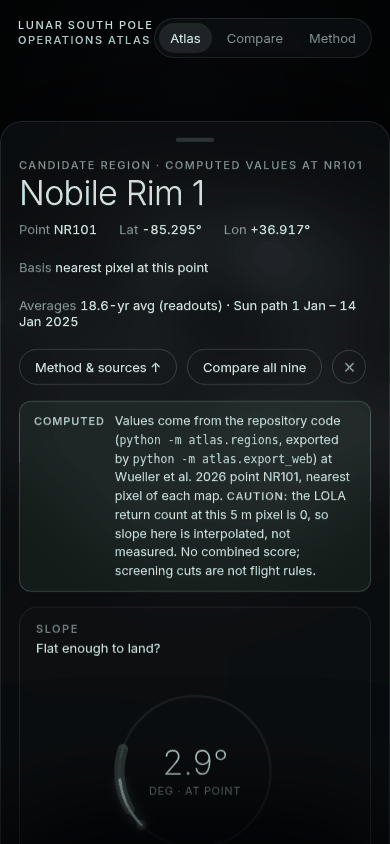
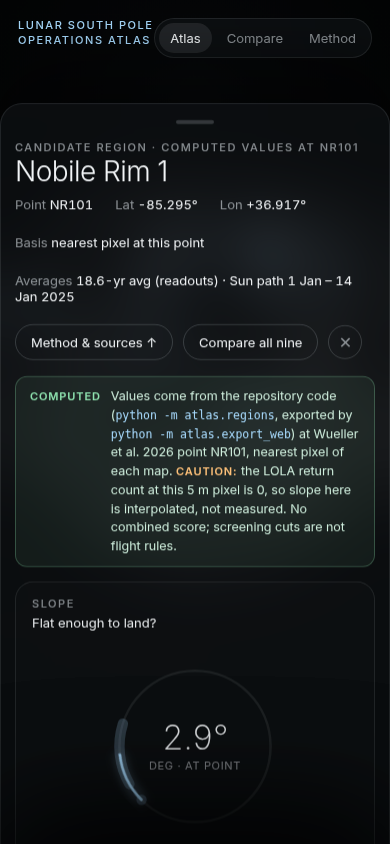
web: fix review findings on PR #1
- home chip derives 5 m / 20 m zoom counts from the zoom data (seven 5 m, two 20 m)
- horizon caption follows the selected eye height and refreshes on toggle
- NR101 now shows the outside-raster / not 18.6-year average / not link budget caveat
- compare table prints the true RMS and Diviner uncertainty, not a half-bar clamped at 0
- null temperature resolution and shadow pixel label show n/a instead of 0 m / null pixel
- fix map colatitude (8.5 deg) and Sun-wash comments
- add web/test_findings.js; regenerate affected screenshots

diff --git a/moon-south-pole-atlas/web/index.html b/moon-south-pole-atlas/web/index.html
@@ -270,7 +270,7 @@ body.layer-open .scrim{opacity:1;pointer-events:auto}
 </div>
 
 <footer class="foot">
-  <div class="chip"><i></i>All nine computed · slope missing for 3 (no 5 m slope tile) · real terrain zoom for all nine<span class="xl"> (5 m for six, 20 m for three) · DE421 Sun</span></div>
+  <div class="chip"><i></i>All nine computed · slope missing for 3 (no 5 m slope tile) · real terrain zoom for all nine<span class="xl"> (<span id="chip-zoom">5 m for seven, 20 m for two</span>) · DE421 Sun</span></div>
   <div class="compass"><span id="sunlbl">Backdrop: LOLA average sunlight visibility, 120 m · Mazarico et al. 2011</span>
     <svg viewBox="0 0 44 44"><circle cx="22" cy="22" r="20" fill="none" stroke="rgba(235,242,247,.18)"/><text x="22" y="9" fill="rgba(235,242,247,.5)" font-size="6" text-anchor="middle" font-family="sans-serif">0°</text><g id="sunneedle"><line x1="22" y1="22" x2="22" y2="6" stroke="#a9dcff" stroke-width="1.2"/><circle cx="22" cy="6" r="2.2" fill="#fff"/></g><circle cx="22" cy="22" r="1.5" fill="#fff"/></svg>
   </div>
@@ -430,19 +430,26 @@ const SUN=window.SUN_DATA||null;      // DE421 Sun azimuth/elevation, nine point
 const ZOOM=window.ZOOM_DATA||null;    // NR101 real DEM chip + LOLA sunlight-map crops (atlas/export_zoom.py)
 const HSUN=SUN&&SUN.home||null;     // Sun direction seen from the pole (home map), same DE421 hours
 const REDUCED=matchMedia('(prefers-reduced-motion: reduce)').matches;
+(function(){ // zoom-source counts come from the exported DEM records, not hardcoded
+  const dm=ZOOM&&ZOOM.dem; if(!dm)return;
+  const c={}; Object.values(dm).forEach(d=>{c[d.source_pixel_m]=(c[d.source_pixel_m]||0)+1;});
+  const W=['zero','one','two','three','four','five','six','seven','eight','nine'];
+  const parts=Object.keys(c).map(Number).sort((a,b)=>a-b).map(m=>m+' m for '+(W[c[m]]||c[m]));
+  const e=document.getElementById('chip-zoom'); if(e)e.textContent=parts.join(', ');
+})();
 REGIONS.forEach(r=>{r.d=DATA?DATA.regions.find(x=>x.point_id===r.site)||null:null;});
 
 // ---------- readouts: every number comes from regions.json; nothing is generated here ----------
 const mean=a=>a.reduce((s,v)=>s+v,0)/a.length;
 function stats(r,height){
   const q=r.d; if(!q)return {missing:true,r};
-  const px=q.temperature_resolution_m/1000, km=q.distance_to_cold_shadow_m==null?null:q.distance_to_cold_shadow_m/1000;
+  const px=q.temperature_resolution_m==null?null:q.temperature_resolution_m/1000, km=q.distance_to_cold_shadow_m==null?null:q.distance_to_cold_shadow_m/1000;
   const rms=q.slope_rms_deg;
   const out={real:true,q,r,
-    slope:q.slope_deg==null?null:{v:q.slope_deg,lo:Math.max(0,q.slope_deg-rms),hi:q.slope_deg+rms,unc:'±1 RMS slope error'},
+    slope:q.slope_deg==null?null:{v:q.slope_deg,lo:Math.max(0,q.slope_deg-rms),hi:q.slope_deg+rms,unc:'±1 RMS slope error',pm:rms},
     sun:q.solar_fraction==null?null:{v:q.solar_fraction,lo:q.solar_fraction,hi:q.solar_fraction,unc:'no uncertainty published for this average'},
     earth:q.earth_fraction==null?null:{v:q.earth_fraction*100,lo:q.earth_fraction*100,hi:q.earth_fraction*100,unc:'no uncertainty published for this average'},
-    cold:km==null?null:{v:km,lo:Math.max(0,km-px),hi:km+px,unc:'± one Diviner pixel ('+(px*1000).toFixed(0)+' m)'},
+    cold:km==null||px==null?null:{v:km,lo:Math.max(0,km-px),hi:km+px,pm:px,unc:'± one Diviner pixel ('+(px*1000).toFixed(0)+' m)'},
     series:null, sunp:SUN&&r.site?(SUN.points[r.site]||null):null};
   const zs=r.id!=='NR1'&&ZOOM&&ZOOM.strips&&ZOOM.strips[r.site];
   if(zs){
@@ -467,7 +474,7 @@ const cuts={slope:8,ill:0.5,on:true};
 
 // ---------- procedural moon ----------
 const cv=$('#moon'), ctx=cv.getContext('2d');
-const N=640, EXT=8.5; // map covers +/-12 deg colatitude
+const N=640, EXT=8.5; // map covers +/-8.5 deg of colatitude
 const off=document.createElement('canvas'); off.width=off.height=N;
 const octx=off.getContext('2d'); const img=octx.createImageData(N,N);
 const hgt=new Float32Array(N*N), gx=new Float32Array(N*N), gy=new Float32Array(N*N), alb=new Float32Array(N*N);
@@ -546,7 +553,7 @@ function draw(){
   vg.addColorStop(0,'rgba(5,6,7,0)');vg.addColorStop(1,'rgba(5,6,7,.85)');ctx.fillStyle=vg;ctx.fillRect(0,0,W,Hh);
   const lg=ctx.createLinearGradient(0,0,W*.55,0);lg.addColorStop(0,'rgba(5,6,7,.75)');lg.addColorStop(1,'rgba(5,6,7,0)');
   if(W>900){ctx.fillStyle=lg;ctx.fillRect(0,0,W*.55,Hh);}
-  // Sun direction over the backdrop: a soft wash from the real Sun azimuth of the open region, mapped into this layout.
+  // Sun direction over the backdrop: a soft wash toward the Sun's map longitude (its longitude as seen from the pole, DE421), mapped into this layout.
   // The backdrop itself is the static LOLA average-sunlight map; this wash only shows where the Sun is.
   if(homeSun){
     const a=homeSun.lon*D2R, dx=Math.sin(a), dy=-Math.cos(a);   // map direction toward the Sun (map up = longitude 0)
@@ -664,7 +671,7 @@ function renderDials(){
     const c=d.cut(); if(c){ce.style.display='';ce.style.left=f(c.v)*100+'%';ce.querySelector('span').textContent=c.t;}else ce.style.display='none';
     const ends=el.querySelectorAll('.ends span'); ends[0].textContent=d.min+d.suf; ends[1].textContent=d.max+d.suf;
     let rt=v.unc;
-    if(k==='slope')rt+=` (${lo.toFixed(1)}–${hi.toFixed(1)}°)`+(s.q.interpolated_gap?' · return count 0: interpolated, not measured':'');
+    if(k==='slope')rt+=` (${(v.v-v.pm).toFixed(1)}–${(v.v+v.pm).toFixed(1)}°)`+(s.q.interpolated_gap?' · return count 0: interpolated, not measured':'');
     if(k==='cold')rt+=` · summer max ${Units.kHTML(s.q.summer_max_temperature_k)} here`;
     if(s.series&&k==='sun')rt+=` · ${s.q.point_id} 14-day window, ${height} m: ${s.winSun.toFixed(0)}% of hours (separate product)`;
     if(s.series&&k==='earth')rt+=` · ${s.q.point_id} 14-day window, ${height} m: ${s.winEarth.toFixed(0)}% of hours (separate product)`;
@@ -676,11 +683,18 @@ function renderDials(){
 const pl=x=>x?x.replace(/\.0+ m/,' m'):x;
 function renderExtras(){
   const q=cur.q, ex=[];
-  ex.push(['Summer max temperature',q.summer_max_temperature_k==null?'n/a':Units.kHTML(q.summer_max_temperature_k),'Diviner, own '+(q.temperature_resolution_m||0).toFixed(0)+' m pixel; not a 5 m measurement']);
-  ex.push(['Permanent shadow',q.permanent_shadow==null?'n/a':q.permanent_shadow?'Inside':'Outside','75°S illumination map, '+pl(q.permanent_shadow_pixel_label)+' pixel']);
+  ex.push(['Summer max temperature',q.summer_max_temperature_k==null?'n/a':Units.kHTML(q.summer_max_temperature_k),(q.temperature_resolution_m==null?'Diviner pixel size n/a':'Diviner, own '+q.temperature_resolution_m.toFixed(0)+' m pixel')+'; not a 5 m measurement']);
+  ex.push(['Permanent shadow',q.permanent_shadow==null?'n/a':q.permanent_shadow?'Inside':'Outside','75°S illumination map'+(q.permanent_shadow_pixel_label==null?', pixel size n/a':', '+pl(q.permanent_shadow_pixel_label)+' pixel')]);
   ex.push(['LOLA returns in pixel',q.lola_return_count==null?'n/a':String(Math.round(q.lola_return_count)),q.lola_return_count==null?'Not computed: no 5 m tile contains this point':q.interpolated_gap?'0 = slope here is interpolated':'Measured returns at the 5 m pixel']);
   ex.push(['Slope DEM',pl(q.slope_dem_label)||'none','LOLA product 78; the 20 m mosaic is not substituted']);
   $('#extras').innerHTML=ex.map(e=>`<div class="extra"><span class="label">${e[0]}</span><b class="${e[1]==='n/a'||e[1]==='none'?'na':''}">${e[1]}</b>${e[2]}</div>`).join('');stripConvDots($('#extras'));
+}
+function renderTlNote(r){
+  const nt=$('#tl-none'), stp=cur&&cur.strip, zr=ZOOM&&ZOOM.dem&&ZOOM.dem[r.site];
+  if(!cur||!cur.series||!zr)return;   // regions without strips keep the static note set in openRegion
+  const reach=stp&&stp.reach_m!=null?' ('+(stp.reach_m/1000).toFixed(1)+' km from the point on the nearest side)':'';
+  nt.style.display='';
+  nt.innerHTML='<b>Terrain-aware strips.</b> The Sun and Earth strips use the repository’s horizon code on the '+zr.source_short+' raster (<code>'+zr.file+'</code>, '+zr.source_pixel_m+' m pixels): the horizon is the highest terrain angle in each 0.5° azimuth bin seen from an eye '+height+' m above the surface at '+r.site+', and a disc counts as visible when any part of it clears that horizon. Terrain outside the elevation raster'+reach+' is not in the mask'+(zr.source_pixel_m>5?', and '+zr.source_pixel_m+' m pixels do not resolve small craters or boulders, so a near horizon can be too low':'')+'. Not a radio link budget, and not the 18.6-year average.';
 }
 function openRegion(id){
   const r=REGIONS.find(x=>x.id===id); if(!r)return; sel=id;
@@ -706,9 +720,7 @@ function openRegion(id){
   $('#eyectl').style.display=hasTL?'':'none'; $('#w-earth').style.display=hasTL?'':'none';
   const nt=$('#tl-none');
   const stp=cur.strip, zr=ZOOM&&ZOOM.dem&&ZOOM.dem[r.site];
-  if(hasTL&&stp){
-    nt.style.display=''; nt.innerHTML='<b>Terrain-aware strips.</b> The Sun and Earth strips use the repository’s horizon code on the '+zr.source_short+' raster (<code>'+zr.file+'</code>, '+zr.source_pixel_m+' m pixels): the horizon is the highest terrain angle in each 0.5° azimuth bin seen from an eye '+height+' m above the surface at '+r.site+', and a disc counts as visible when any part of it clears that horizon. Terrain beyond the raster ('+(stp.reach_m/1000).toFixed(1)+' km from the point on the nearest side) is not in the mask'+(zr.source_pixel_m>5?', and '+zr.source_pixel_m+' m pixels do not resolve small craters or boulders, so a near horizon can be too low':'')+'. Not a radio link budget, and not the 18.6-year average.';
-  }else if(hasTL){nt.style.display='none';}
+  if(hasTL){renderTlNote(r);}
   else{nt.style.display=hasSun?'':'none';nt.textContent='Sun position for '+r.name+' is the real DE421 ephemeris at this point, drawn as the elevation of the Sun’s disc centre above a smooth local horizontal. There is no hourly terrain-aware Sun/Earth visibility for it because no elevation raster was available to build a horizon. The 18.6-year averages above are the comparable measure.';}
   $('#tl-label').textContent=hasTL?'Hourly Sun & Earth visibility · 14 days from 2025-01-01 · DE421 + terrain horizon from '+(r.id==='NR1'?'the Site 06 5 m':'the '+(zr?zr.source_pixel_m:'')+' m')+' DEM · '+r.site:'Sun elevation · 14 days from 2025-01-01 · DE421 · no terrain horizon for this region';
   if(!cur.missing)renderDials();
@@ -796,7 +808,7 @@ $$('.js-play').forEach(b=>{b.onclick=()=>{if(playing){setPlaying(false);return;}
 $$('.js-seg button').forEach(b=>b.onclick=()=>{speed=+b.dataset.s;$$('.js-seg button').forEach(x=>x.classList.toggle('on',x.dataset.s===b.dataset.s));segThumb();setPlaying(playing);});
 function segThumb(){$$('.seg').forEach(g=>{const on=g.querySelector('.on'),th=g.querySelector('.thumb');if(on&&on.offsetWidth){th.style.left=on.offsetLeft+'px';th.style.width=on.offsetWidth+'px';}});}
 $$('#hseg button').forEach(b=>b.onclick=()=>{$$('#hseg button').forEach(x=>x.classList.toggle('on',x===b));segThumb();height=+b.dataset.h;
-  if(sel){cur=stats(REGIONS.find(x=>x.id===sel),height);if(cur.missing)return;renderDials();drawTL();setHour(simH,true);}});
+  if(sel){cur=stats(REGIONS.find(x=>x.id===sel),height);if(cur.missing)return;renderDials();renderTlNote(REGIONS.find(x=>x.id===sel));drawTL();setHour(simH,true);}});
 
 // ---------- site zoom ----------
 // NR101: real LOLA 5 m elevation chip, hillshaded and shadow-cast under the DE421 Sun direction.
@@ -903,7 +915,7 @@ function renderTable(){
   const na='<span class="na">n/a</span>';
   const rows=[...ALL].sort((a,b)=>a.r.lon-b.r.lon).map(({r,s})=>{
     if(s.missing)return `<tr data-id="${r.id}"><td><span class="nm">${r.name}</span><span class="sid">${r.site} · no data loaded</span></td><td colspan="6">${na}</td></tr>`;
-    const hs=x=>((Math.abs(x.hi-x.lo))/2);
+    const hs=x=>x.pm; // true published uncertainty; the bar in the card is clamped at 0, this number is not
     let cut='—';
     if(cuts.on){const a=s.slope?s.slope.v<cuts.slope:null,b=s.sun?s.sun.v>cuts.ill:null;
       const part=(n,x,w)=>x===null?`<span class="cutno">${n} n/a</span>`:`<span class="${x?'cutok':'cutno'}">${n} ${x?'inside':'outside'}</span>`;

diff --git a/moon-south-pole-atlas/web/test_findings.js b/moon-south-pole-atlas/web/test_findings.js
@@ -1,0 +1,46 @@
+// Headless check of the PR #1 review findings.
+// usage: node --experimental-websocket web/test_findings.js   (needs google-chrome on PATH)
+const {spawn}=require('child_process'), path=require('path'), http=require('http'), assert=require('assert');
+const url='file://'+path.resolve(process.env.PAGE||path.join(__dirname,'index.html'));
+const sleep=ms=>new Promise(r=>setTimeout(r,ms));
+const getJSON=u=>new Promise((res,rej)=>http.get(u,r=>{let d='';r.on('data',c=>d+=c);r.on('end',()=>res(JSON.parse(d)))}).on('error',rej));
+(async()=>{
+  const port=9800+Math.floor(Math.random()*500);
+  const ch=spawn('google-chrome',['--headless=new','--no-sandbox','--disable-gpu','--remote-debugging-port='+port,'--window-size=1440,900','about:blank'],{stdio:'ignore'});
+  let tabs; for(let i=0;i<50;i++){try{tabs=await getJSON(`http://127.0.0.1:${port}/json`);if(tabs.length)break;}catch(e){}await sleep(200);}
+  const ws=new WebSocket(tabs.find(t=>t.type==='page').webSocketDebuggerUrl); await new Promise(r=>ws.onopen=r);
+  let id=0; const pend={}; ws.onmessage=m=>{const d=JSON.parse(m.data);if(d.id&&pend[d.id]){pend[d.id](d.result||d);delete pend[d.id];}};
+  const send=(method,params={})=>new Promise(r=>{const i=++id;pend[i]=r;ws.send(JSON.stringify({id:i,method,params}));});
+  const ev=async e=>{const r=await send('Runtime.evaluate',{expression:e,returnByValue:true,awaitPromise:true});return r.result&&r.result.value;};
+  await send('Page.navigate',{url}); await sleep(1500);
+  const fails=[]; const ok=(n,f)=>{try{f();console.log('ok  ',n);}catch(e){console.log('FAIL',n,e.message);fails.push(n);}};
+  const text=sel=>ev(`document.querySelector(${JSON.stringify(sel)}).textContent`);
+  // 1 home chip counts derive from the zoom data
+  const chip=await text('#chip-zoom');
+  const counts=await ev(`(()=>{const c={};Object.values(ZOOM_DATA.dem).forEach(d=>c[d.source_pixel_m]=(c[d.source_pixel_m]||0)+1);return c})()`);
+  ok('home chip: 5 m for seven, 20 m for two',()=>{assert.strictEqual(chip,'5 m for seven, 20 m for two');assert.deepStrictEqual(counts,{5:7,20:2});});
+  // 2 caption follows eye height (Nobile Rim 2 has a strip reach; NR101 too)
+  for(const [mk,site] of [['NR2','NR201'],['NR1','NR101']]){
+    await ev(`document.querySelector('.mk[data-id="${mk}"]').click()`); await sleep(900);
+    const t1=await text('#tl-none');
+    await ev(`document.querySelector('#hseg button[data-h="5"]').click()`); await sleep(300);
+    const t5=await text('#tl-none');
+    await ev(`document.querySelector('#hseg button[data-h="1"]').click()`); await sleep(300);
+    const t1b=await text('#tl-none');
+    ok(site+' caption follows eye height',()=>{assert.ok(/eye 1 m above/.test(t1),t1);assert.ok(/eye 5 m above/.test(t5)&&!/eye 1 m above/.test(t5),t5);assert.ok(/eye 1 m above/.test(t1b));});
+    // 3 caveat on every card incl. NR101
+    ok(site+' shows horizon caveat',()=>{assert.ok(/outside the elevation raster/.test(t1)&&/not in the mask/.test(t1)&&/18\.6-year average/.test(t1)&&/radio link budget/.test(t1));});
+  }
+  // 4 compare table shows true RMS, not clamped half-bar
+  await ev(`openLayer('compare')`); await sleep(300);
+  const row=await ev(`[...document.querySelectorAll('#tbody tr')].find(t=>t.dataset.id==='NR2').children[1].textContent`);
+  ok('NR201 table shows true RMS',()=>{assert.ok(/1\.4°±1\.6/.test(row),row);});
+  // 5 nulls: reload with NR201 temperature resolution and shadow pixel label nulled before the page script runs
+  await send('Page.enable'); const reg=await send('Page.addScriptToEvaluateOnNewDocument',{source:`(()=>{let v;Object.defineProperty(window,'REGIONS_DATA',{configurable:true,get(){return v},set(x){const r=x.regions.find(a=>(a.query||a).point_id==='NR201');const q=r.query||r;q.temperature_resolution_m=null;q.permanent_shadow_pixel_label=null;v=x;}});})()`});
+  await send('Page.navigate',{url}); await sleep(1500);
+  await ev(`document.querySelector('.mk[data-id="NR2"]').click()`); await sleep(900);
+  const nul=await text('#extras'); const dial=await text('.dial[data-k="cold"]');
+  ok('null temperature resolution / shadow pixel label handled',()=>{assert.ok(!/null|\b0 m pixel|NaN/.test(nul+dial),nul+dial);assert.ok(/pixel size n\/a/.test(nul),nul);});
+  ws.close(); ch.kill();
+  if(fails.length){console.log('FAILED',fails.join(', '));process.exit(1);} console.log('findings ok');
+})();
